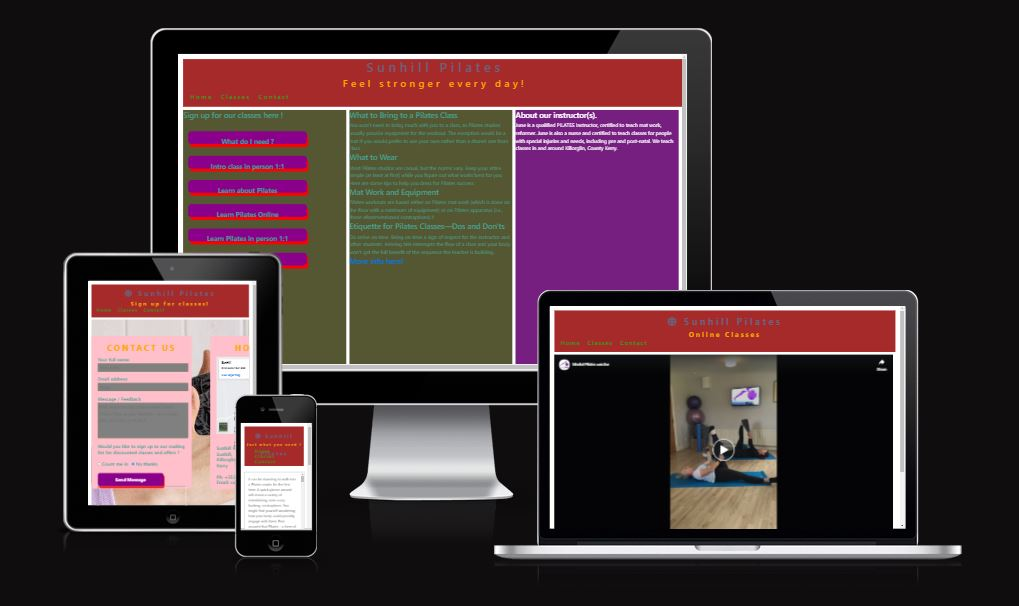
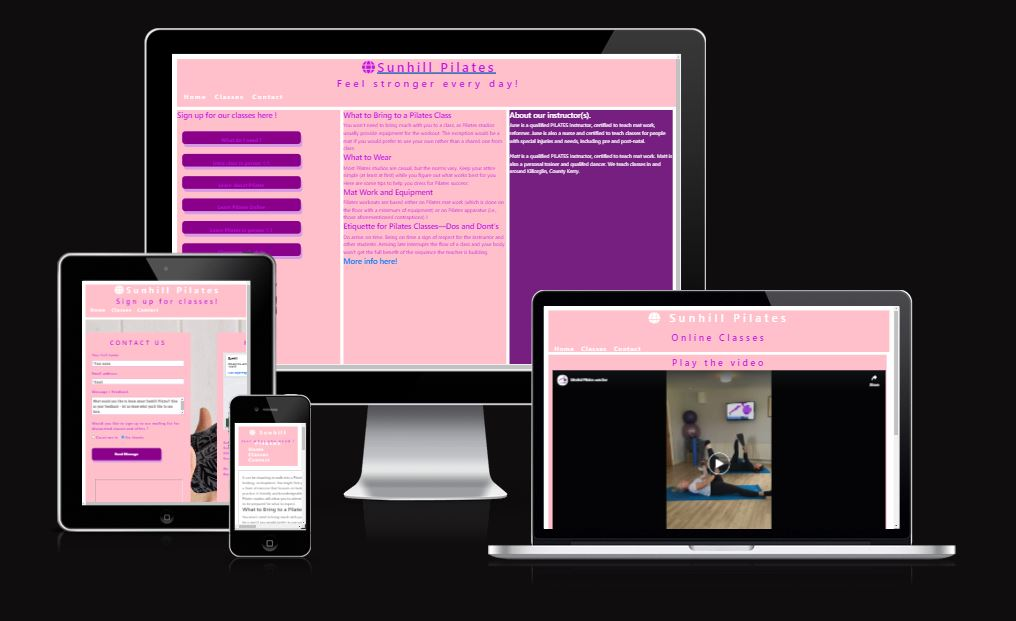
README update

diff --git a/README.md b/README.md
@@ -16,7 +16,7 @@ Sunhill Pilates is a site that advertises and informs the audience about a ficti
 
 This file also contains some important information about the project, including Gitpod and the extensions we use. 
 
-The last update to this file was: **15th July 2022** 
+The last update to this file was: **21st July 2022** 
 
 ## Index
 * [User Experience (UX) - WIP](#user-experience-ux) 
@@ -205,10 +205,9 @@ Here is the version history:
 
 **12th July, 2022** Planning initial project scope in the `README.md` file. I have also added a basic home page with a header, body and footer. More to follow.
 
-**13th July, 2022** Updating `README.md` file with navigation, privacy and design additons. Flexbox iterative development and aside added for consideration.
-
 **15th July, 2022** Updating `README.md` file with deployment, cloning and credits info. Menu to required site pages added (Classes & Contact). First pass at Media settings defined.
 
+**21st July, 2022** Updating `README.md` file with updated layout, color scheme and new pages.
 ------
 
 ## Data Privacy
